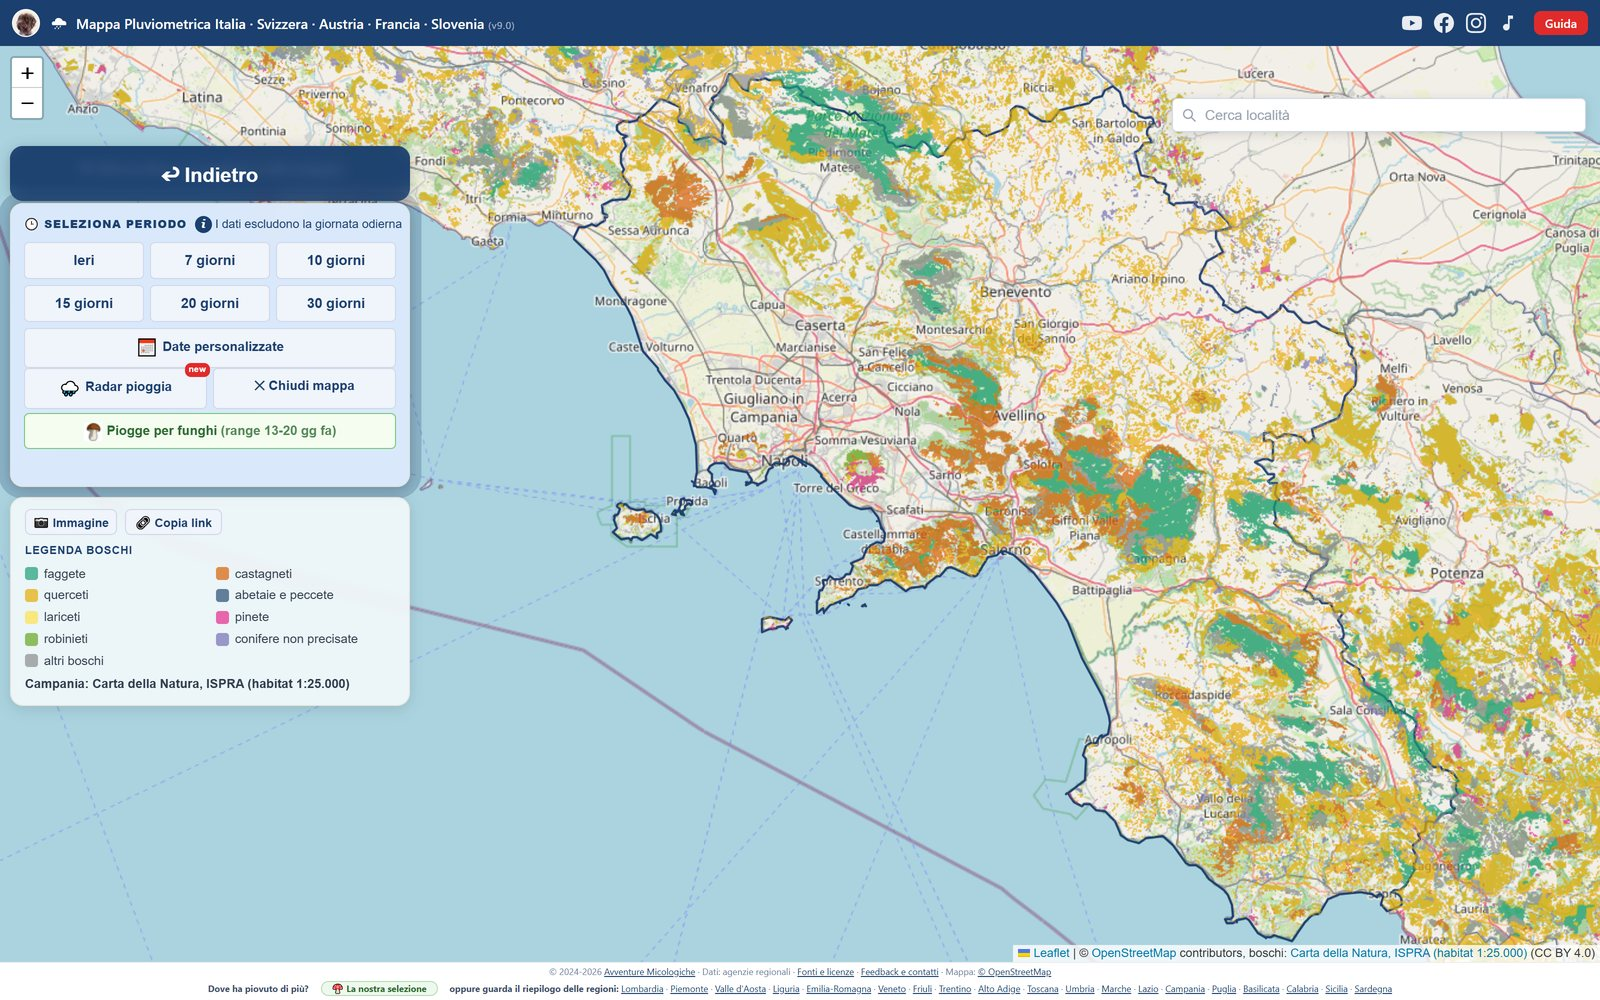
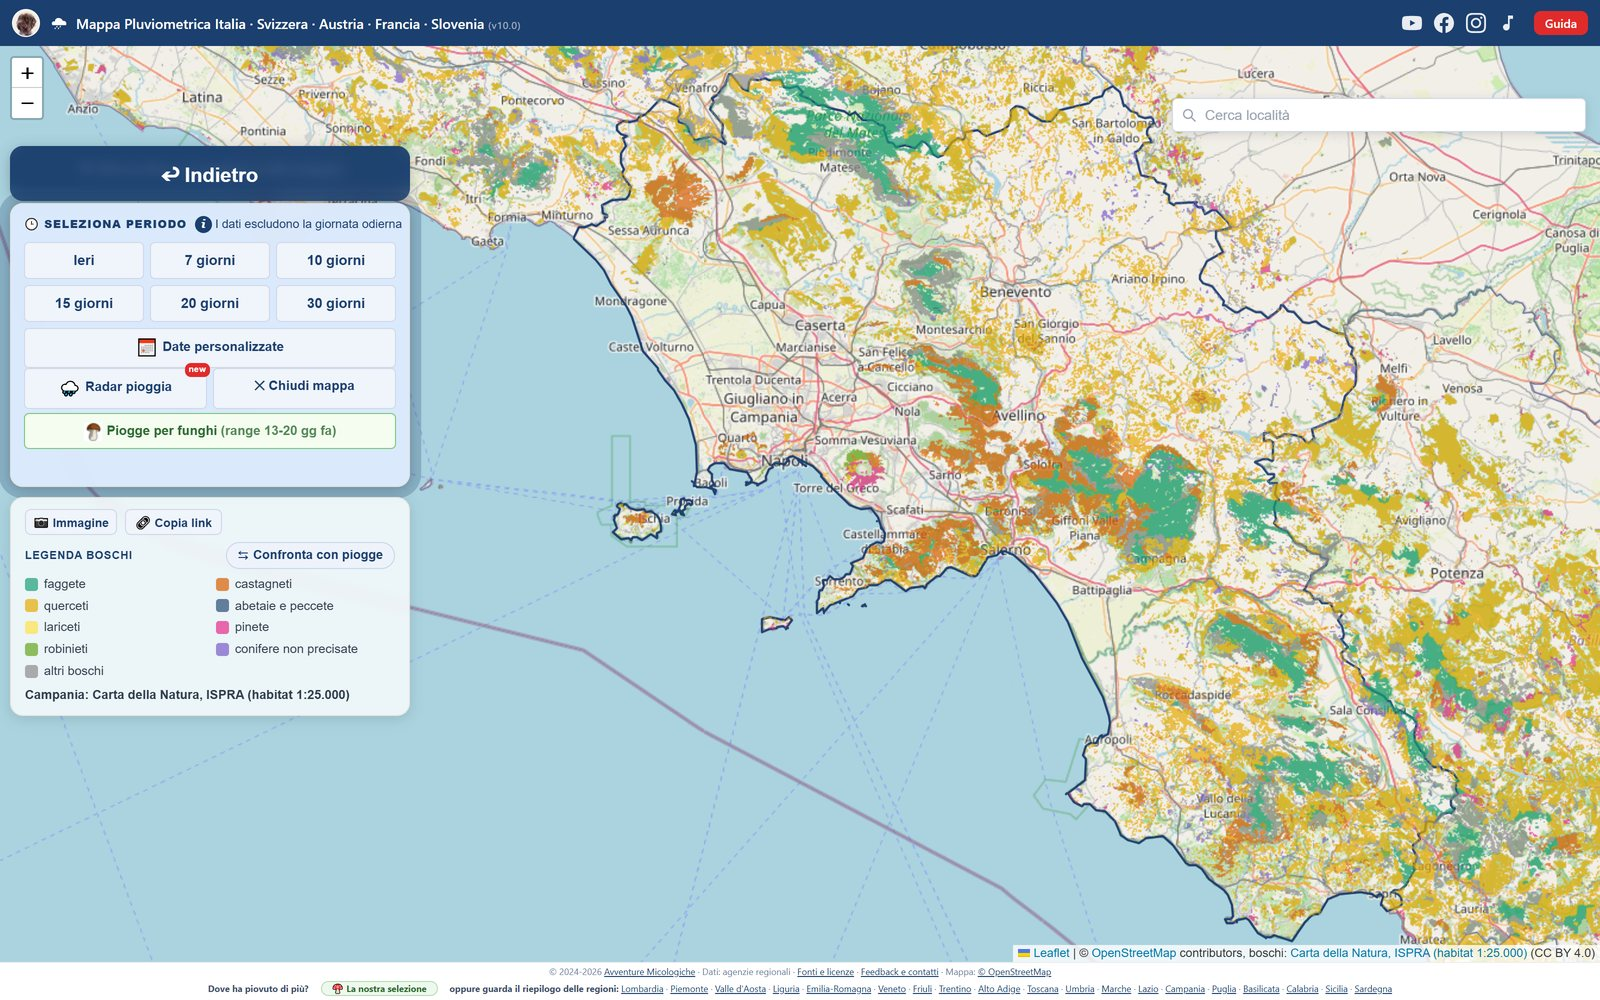
v10: anteprime boschi e foto della guida col viola nuovo; CLAUDE.md sulla mappa boschi
Le 21 anteprime delle pagine funghi e le tre foto della guida hanno la
legenda dentro l'immagine: riscattate dal sito locale con #7a5cc8 e il
tasto «Confronta con piogge». Nuova sezione «La mappa boschi» nel CLAUDE.md.

Changed region(s): [[0.0, 0.527, 0.25, 0.713]]

diff --git a/CLAUDE.md b/CLAUDE.md
@@ -1986,3 +1986,149 @@ famiglie che rispondono a due ricerche diverse, e non si mescolano:
   diverso da quello che trovavi aprendola.
 - `slug`, `elenco`, `diZona` stanno in `lib-nomi.js`: una regola sola per gli
   indirizzi delle zone. Sitemap: famiglia `sitemap-zone-piogge.xml`.
+
+
+---
+
+## La mappa boschi (v10, 19 settembre 2026)
+
+Un **modo** della mappa, come il radar: tasto «🌲 Mappa boschi» nel pannello,
+heatmap e pallini spenti, sopra la mappa il retino delle **carte forestali
+ufficiali** in nove colori. In produzione dal 16/9 con nove regioni; dalla v10
+sono **21, cioe' tutta Italia**. Nata il 15/9 dal confronto con ilcercafunghi.it.
+
+### Dove sta la roba
+
+- **Tessere**: `tessere-boschi/italia/<z>/<x>/<y>.png`, zoom 5-13, ~31.500
+  file, una serie SOLA per tutta Italia (ai confini le carte si fondono senza
+  cuciture). Le fa `tessere-boschi.py` nel banco di lavoro (cartella claudio),
+  dalla cache `cache-boschi`; ogni regione ha il suo scaricatore (`wms-sld`,
+  `arcgis-def`, `arcgis-query`...), tutte finiscono negli stessi gruppi.
+- **`tessere-boschi/italia/indice.json`**: gruppi e colori, regioni con fonte e
+  licenza, elenco delle tessere esistenti. **E' l'unica fonte di verita'**: lo
+  leggono la legenda della mappa, il tocco sul bosco e `.github/scripts/lib-boschi.js`
+  (blocco «Che boschi ci sono» delle pagine funghi). Niente liste doppie.
+- **Anteprime** per le pagine funghi: `tessere-boschi/anteprime/<regione>.jpg`
+  (21, 1600x1000), accanto alle tessere e NON sul ramo `anteprime` delle piogge,
+  perche' non cambiano. Le fa `anteprime-boschi.js` (cartella claudio).
+- ⚠ **Le tessere viaggiano col deploy** (`tessere-boschi/` non e' nella regola
+  ignore): ogni cambio di tessere e' un deploy, ~15 crediti. Il commit di ~30.000
+  file impiega **circa mezz'ora**: si lancia in background.
+
+### I nove gruppi
+
+| gruppo | colore |
+|---|---|
+| faggete | `#1b9e77` |
+| castagneti | `#d95f02` |
+| querceti | `#e6ab02` |
+| abetaie e peccete | `#264b73` |
+| lariceti | `#ffe14d` |
+| pinete | `#e7298a` |
+| robinieti | `#66a61e` |
+| conifere non precisate | `#7a5cc8` |
+| altri boschi | `#8c8c8c` |
+
+- ⚠ **«abetaie e peccete», MAI «abetine»** (decisione dell'utente, 16/9).
+- ⚠ **«pinete» solo se la carta dice pino.** Una conifera senza specie va in
+  **«conifere non precisate»** (~295.000 ha, quasi tutti ISPRA Carta della
+  Natura, codici 42.G e 83.31, piu' Lazio, Abruzzo, Sicilia ed Emilia). Prima
+  finivano in «altri boschi», e Boscolungo all'Abetone, abetaia vera, era grigio:
+  il grigio diceva «non conifera», che e' un'altra cosa falsa.
+- **Riserve naturali biogenetiche dello Stato**: dentro i confini EUAP le
+  conifere non precisate prendono la specie della riserva (abetaie ad Abetone,
+  Vallombrosa, Camaldoli, Acquerino, Pian degli Ontani, Campolino, Scodella,
+  Badia Prataglia, Campigna; pinete di laricio a Trenta Coste; **Gariglione
+  esclusa** perche' mista). ~1.700 ha. `riserve-boschi.json` nel banco,
+  `correggi_riserve()` in `tessere-boschi.py`, al momento delle tessere: la
+  cache resta pura.
+- ⚠ **PROVATE E SCARTATE**, non riproporle: la carta europea delle specie di
+  OpenGeoHub (0 abeti su 124 abetaie note dell'Appennino) e la soglia di quota
+  per separare pini e abeti (in Abruzzo il 78% delle pinete sta sopra i 1.200 m).
+- **I colori si cambiano riscrivendo la sola tavolozza** delle tessere (PNG a
+  tavolozza di 9 colori, chunk `PLTE`), senza rifare il disegno: pochi secondi
+  su 31.500 file. Cosi' il 19/9 il viola e' passato da `#7570b3` a `#7a5cc8`:
+  con l'opacita' 0,7 il vecchio diventava un lilla-grigio che si confondeva col
+  blu notte e col grigio. **Un colore si sceglie sulla mappa vera**, non sul
+  quadratino: in puppeteer si intercettano tessere e `indice.json` e si
+  ricolora al volo (`prova-colori-abetaie.js` nello scratchpad del 19/9).
+  Scartati quel giorno: azzurro puffo, cobalto e ciano per le abetaie.
+- ⚠ Cambiando un colore si cambiano TRE posti: tavolozza delle tessere,
+  `indice.json`, `GRUPPI` in `tessere-boschi.py`. E si riscattano le immagini
+  con la legenda dentro: le 21 anteprime, le foto della guida, l'immagine della
+  home.
+
+### Il tocco sul bosco
+
+Un tocco (o un clic) dice il tipo di bosco in quel punto, in una nuvoletta.
+**Non chiede niente a nessuno**: legge il COLORE della tessera sotto il dito
+(PNG servite dal nostro dominio, quindi il canvas le puo' leggere) e lo riporta
+al gruppo piu' vicino di `indice.gruppi`. Se il dito cade in un buco del mosaico
+guarda intorno per qualche pixel e scrive «qui intorno». Evento GA4
+`click_boschi` con `stato:'tocco'`.
+- ⚠ In modo boschi i contorni delle regioni hanno `pointer-events:none`: si
+  mangiavano il tocco e TOGLIEVANO la regione, e con lei l'analisi.
+- ⚠ In modo boschi il tocco non apre le schede dei pallini (`_boschiAcceso`).
+
+### La tendina pioggia | boschi
+
+«⇆ Confronta con piogge», nella riga del titolo della legenda (su una riga a
+parte il pannello del telefono cresceva di 33 px). Una linea da trascinare: a
+sinistra SOLO la pioggia dell'analisi, a destra SOLO i boschi. Pioggia e boschi
+sovrapposti erano stati bocciati il 15/9; qui non si sovrappongono mai.
+- ⚠ **Si ritagliano DUE strati**: il pane dei boschi e il canvas della
+  heatmap. Le tessere sono al 70%, e la pioggia si vedrebbe attraverso.
+- ⚠ **`clip` e non `clip-path`**: il pane dei boschi e' un div di dimensione
+  zero (Leaflet) e le percentuali di `clip-path` non avrebbero niente su cui
+  calcolarsi.
+- **Senza un'analisi dietro** il tasto non sceglie il periodo da solo
+  (bocciato: «io devo poter scegliere»): chiede il periodo in rosso e, calcolato
+  quello, torna ai boschi con la tendina aperta.
+- **Con la tendina aperta, un periodo nuovo la CHIUDE** e si torna alla pioggia
+  (dal 19/9, sua decisione: «chiudila come su Android»). Sul telefono lo faceva
+  gia': per cambiare data si passa da «Indietro».
+- **La barra si spiega da sola alle prime QUATTRO aperture col tasto**: va
+  avanti e indietro (1,6 s), il pallino pulsa, la nuvoletta «Trascina la barra ⇆»
+  resta fino al primo trascinamento. Contatore in localStorage `boTendVolte`
+  (dentro `try`: in navigazione privata la dimostrazione compare sempre). Le
+  riaperture automatiche dopo un cambio di periodo non ne consumano una. Nata
+  dalla prova con gli utenti sul test: «pensavano fosse la stessa zona a
+  confronto».
+- L'etichetta di sinistra dice il periodo («◀ 💧 Pioggia 12-18 set»), letto dal
+  link dell'analisi.
+- Sul telefono pomello ed etichette stanno al 30% dell'altezza: la meta' bassa
+  della mappa e' sotto la legenda.
+
+### Altre cose della v10
+
+- **Con una scheda di pluviometro aperta, un clic dentro la regione chiude la
+  scheda** invece di accendere o spegnere la regione (dal computer). Il
+  poligono fermava il clic e `map.on('click')` non lo vedeva mai.
+  ⚠ `histEl.style.display==='block'` e non `!=='none'`: all'apertura lo style
+  e' vuoto e il primo clic sulle regioni si perdeva.
+- **In modo boschi sul telefono la pillola del canale sparisce** e la regione si
+  rimette al centro della striscia libera.
+- **Niente riga «Segnalacelo» nella legenda** (tolta il 19/9: la legenda ha gia'
+  troppo poco spazio). L'invito a segnalare i boschi sbagliati sta in guida,
+  fonti e nei testi social.
+
+### Licenze e fonti
+
+Una voce per carta in `fonti.html`, e il campo `licenza` di `indice.json` finisce
+nell'attribuzione della mappa («fonte (licenza)»): **diciture CORTE**. Casi da
+ricordare: Veneto «citazione obbligatoria» (la scheda del 2006 vieta la
+distribuzione a terzi); Abruzzo CC BY-NC 3.0 (mail per il non commerciale:
+**lui ha detto di lasciar perdere**, non riproporla); Puglia e Basilicata senza
+licenza scritta, dato aperto per CAD art. 52; Alto Adige CC0 ma **tipi
+naturali**, modellati e poi tarati sul terreno (l'utente non vuole avvertenze in
+guida o nelle pagine, resta la sola nota in fonti).
+
+### Come si collauda
+
+In locale (`python -m http.server` o il `launch.json` su 8898), mai sul test:
+- `collaudo-boschi.js` (cartella claudio): desktop, 393 e 360.
+- La tendina e il cambio di periodo vogliono **clic veri**: il sito ascolta solo
+  gli eventi `isTrusted`. Col riquadro del browser nascosto i clic non arrivano:
+  si usa puppeteer headless (`prova-tendina-periodo.js` nello scratchpad del 19/9).
+- Dopo una ricolorazione: legenda col colore nuovo e tocco su un pixel di quel
+  colore che restituisce il nome giusto (`prova-tocco-conifere.js`).
